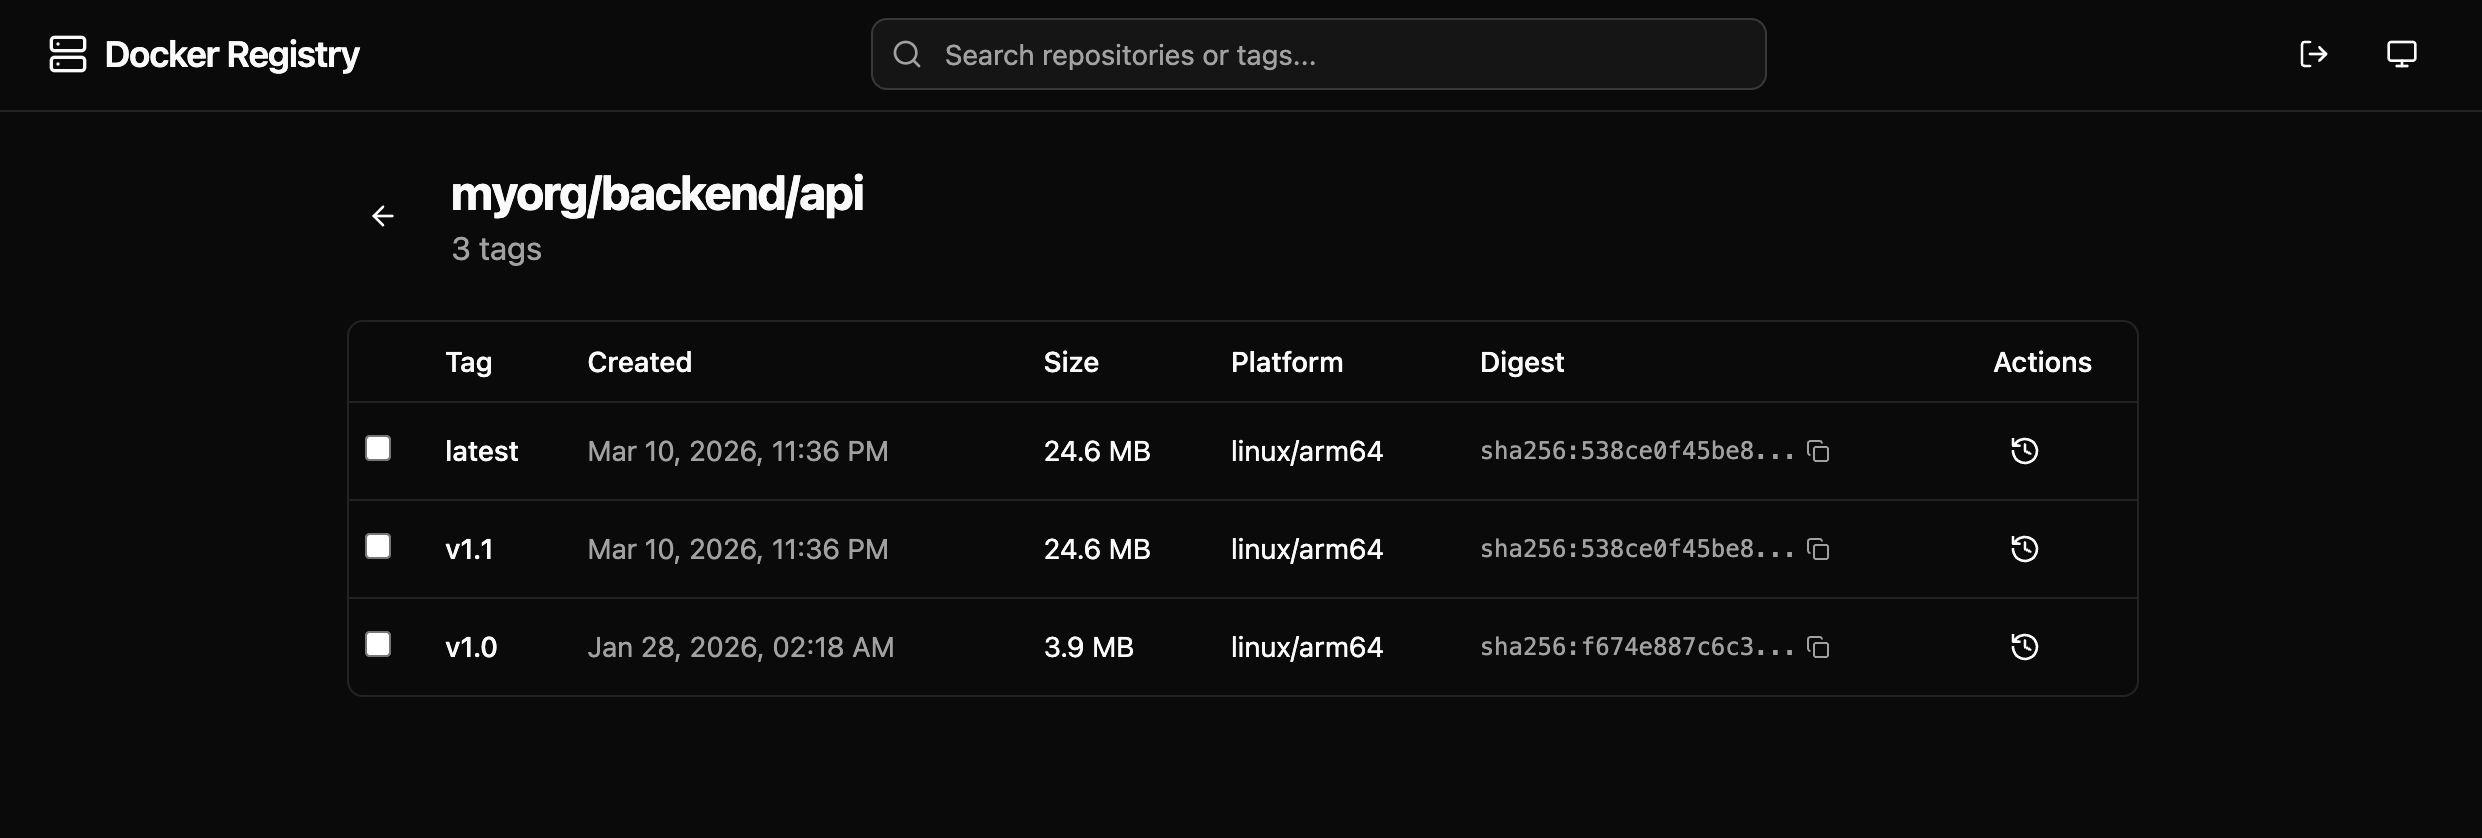
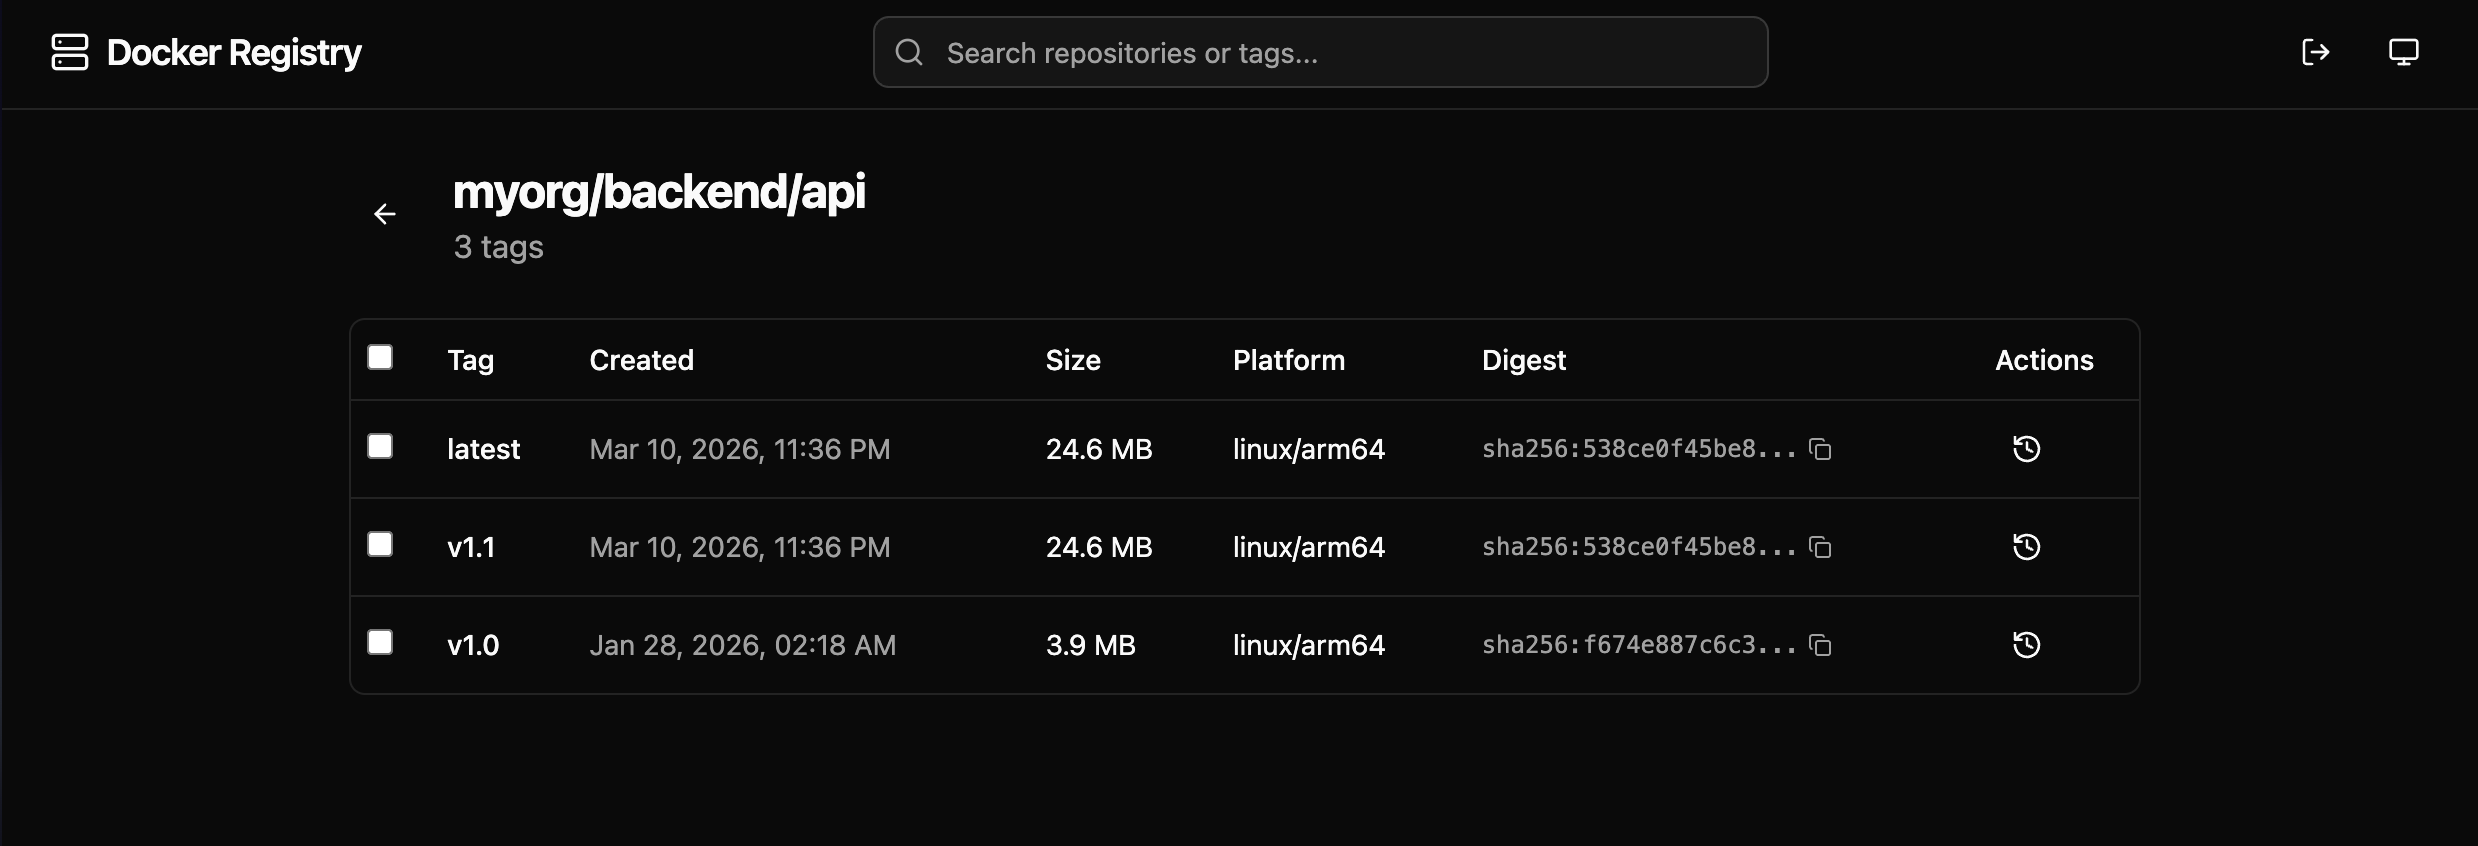
feat: select/unselect all tags

diff --git a/src/pages/TagListPage.vue b/src/pages/TagListPage.vue
@@ -56,15 +56,19 @@ function formatDate(dateStr: string): string {
 }
 
 
-function toggleSelect(tag: string, event?: MouseEvent) {
-  if (event?.altKey) {
-    if (selectedTags.value.size === paginatedTags.value.length) {
-      selectedTags.value.clear()
-    } else {
-      selectedTags.value = new Set(paginatedTags.value.map(t => t.tag))
-    }
-    return
+const allSelected = computed(() =>
+  paginatedTags.value.length > 0 && paginatedTags.value.every(t => selectedTags.value.has(t.tag))
+)
+
+function toggleSelectAll() {
+  if (allSelected.value) {
+    selectedTags.value.clear()
+  } else {
+    selectedTags.value = new Set(paginatedTags.value.map(t => t.tag))
   }
+}
+
+function toggleSelect(tag: string) {
   if (selectedTags.value.has(tag)) {
     selectedTags.value.delete(tag)
   } else {
@@ -232,7 +236,14 @@ watch(() => route.params.image, fetchTags)
         <Table>
           <TableHeader>
             <TableRow>
-              <TableHead class="w-10"></TableHead>
+              <TableHead class="w-10">
+                <input
+                  type="checkbox"
+                  :checked="allSelected"
+                  class="rounded border-input"
+                  @click="toggleSelectAll"
+                />
+              </TableHead>
               <TableHead>Tag</TableHead>
               <TableHead>Created</TableHead>
               <TableHead>Size</TableHead>
@@ -252,7 +263,7 @@ watch(() => route.params.image, fetchTags)
                   type="checkbox"
                   :checked="selectedTags.has(tag.tag)"
                   class="rounded border-input"
-                  @click="toggleSelect(tag.tag, $event as MouseEvent)"
+                  @click="toggleSelect(tag.tag)"
                 />
               </TableCell>
               <TableCell class="font-medium">
